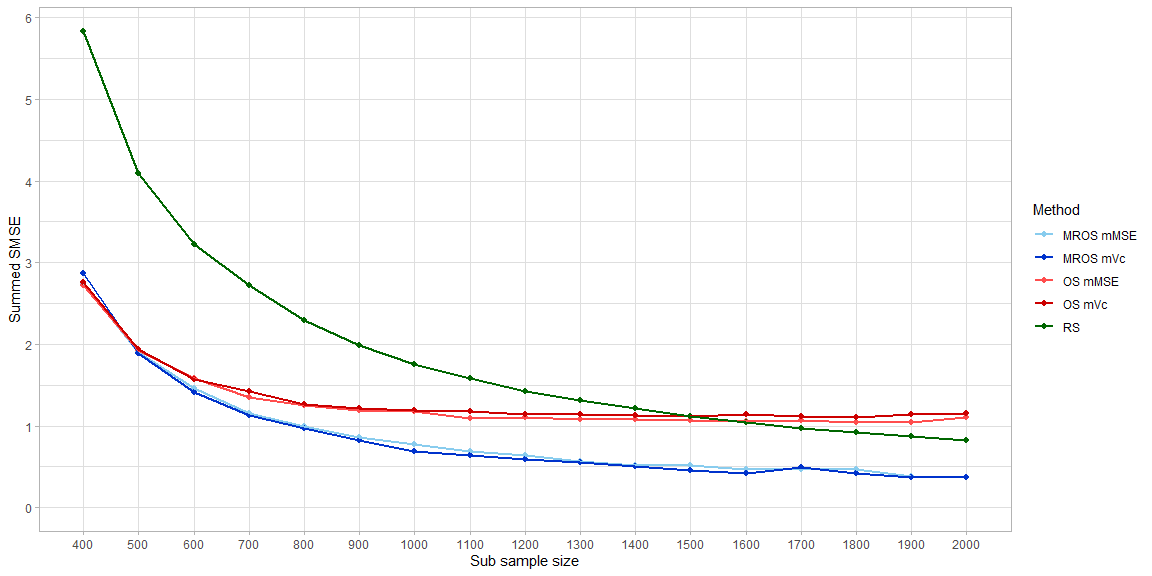
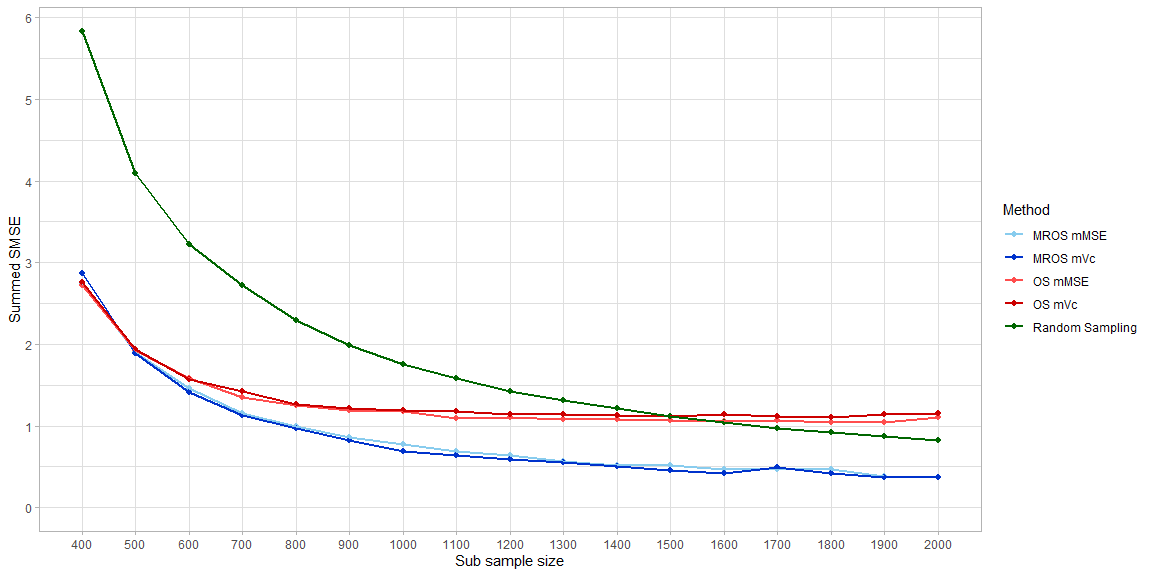
RS to Random Sampling in article legend

diff --git a/Articles.html b/Articles.html
@@ -169,8 +169,8 @@ pre code {
 
 <div id="article" class="section level1">
 <h1>Article</h1>
-<p>Amalan February 20, 2022</p>
[1 lines of base64/hex data omitted]
+<p>Amalan February 21, 2022</p>
[1 lines of base64/hex data omitted]
 </div>
 
 

diff --git a/Articles.md b/Articles.md
@@ -1,6 +1,6 @@
 Article
 ================
 Amalan
-February 20, 2022
+February 21, 2022
 
 ![](Articles_files/figure-gfm/load%20Non%20Identical%20Data-1.png)<!-- -->
